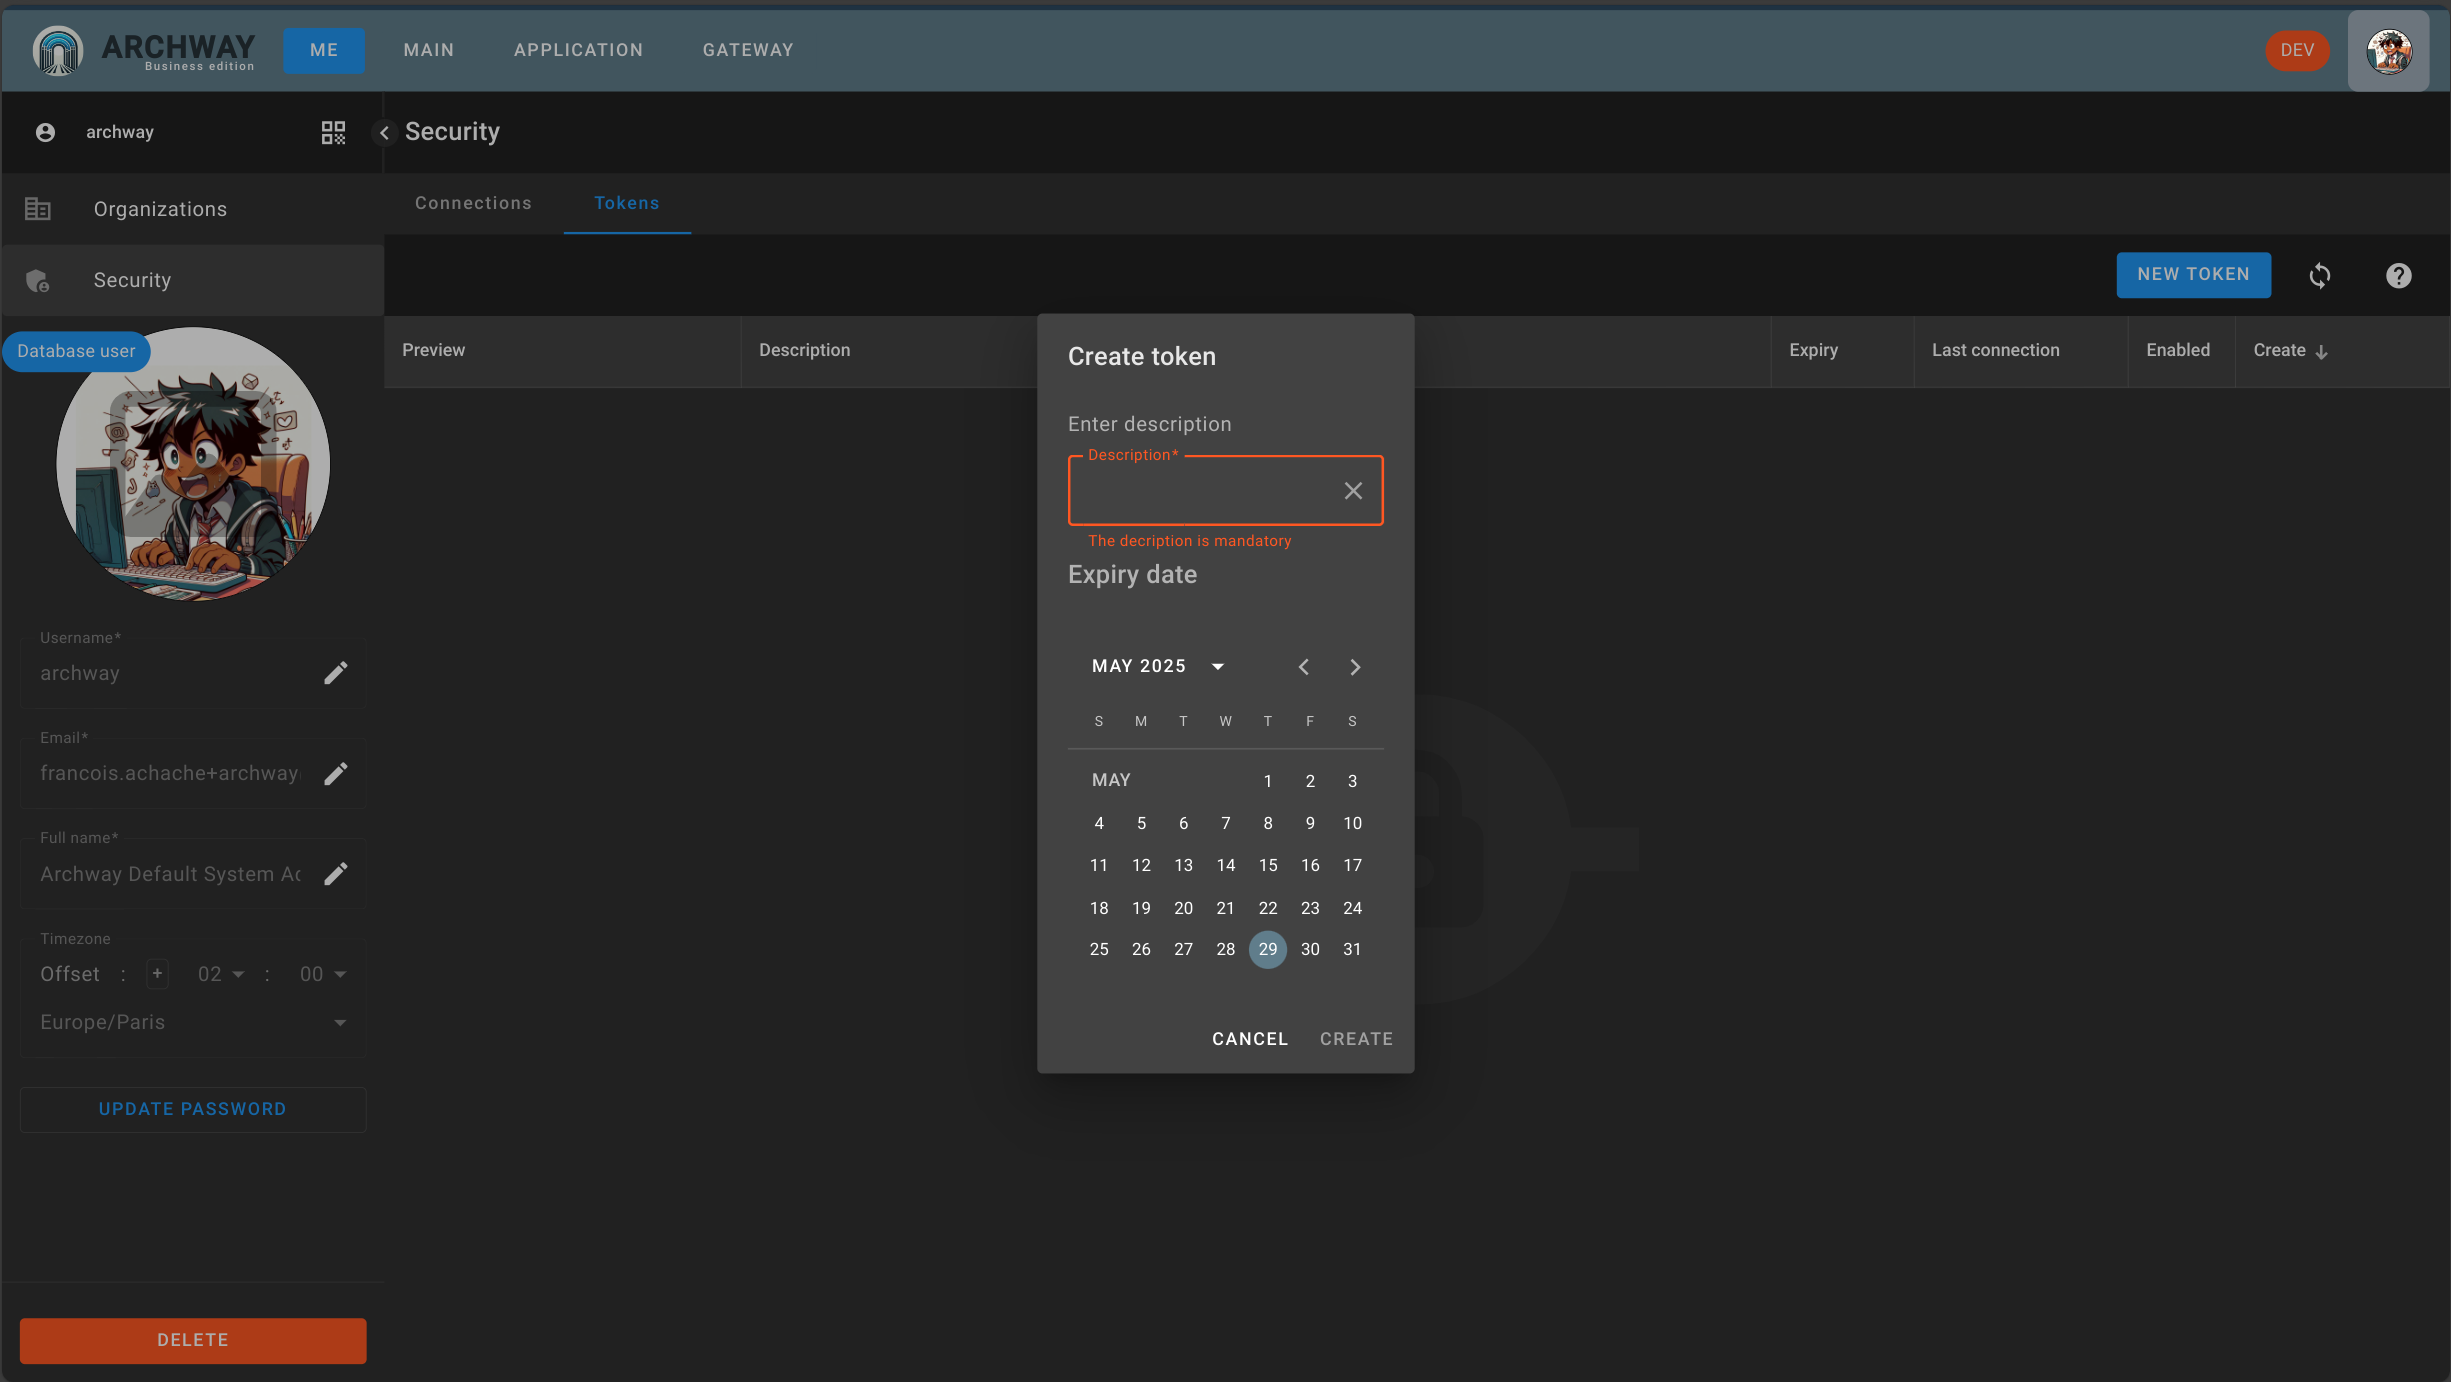
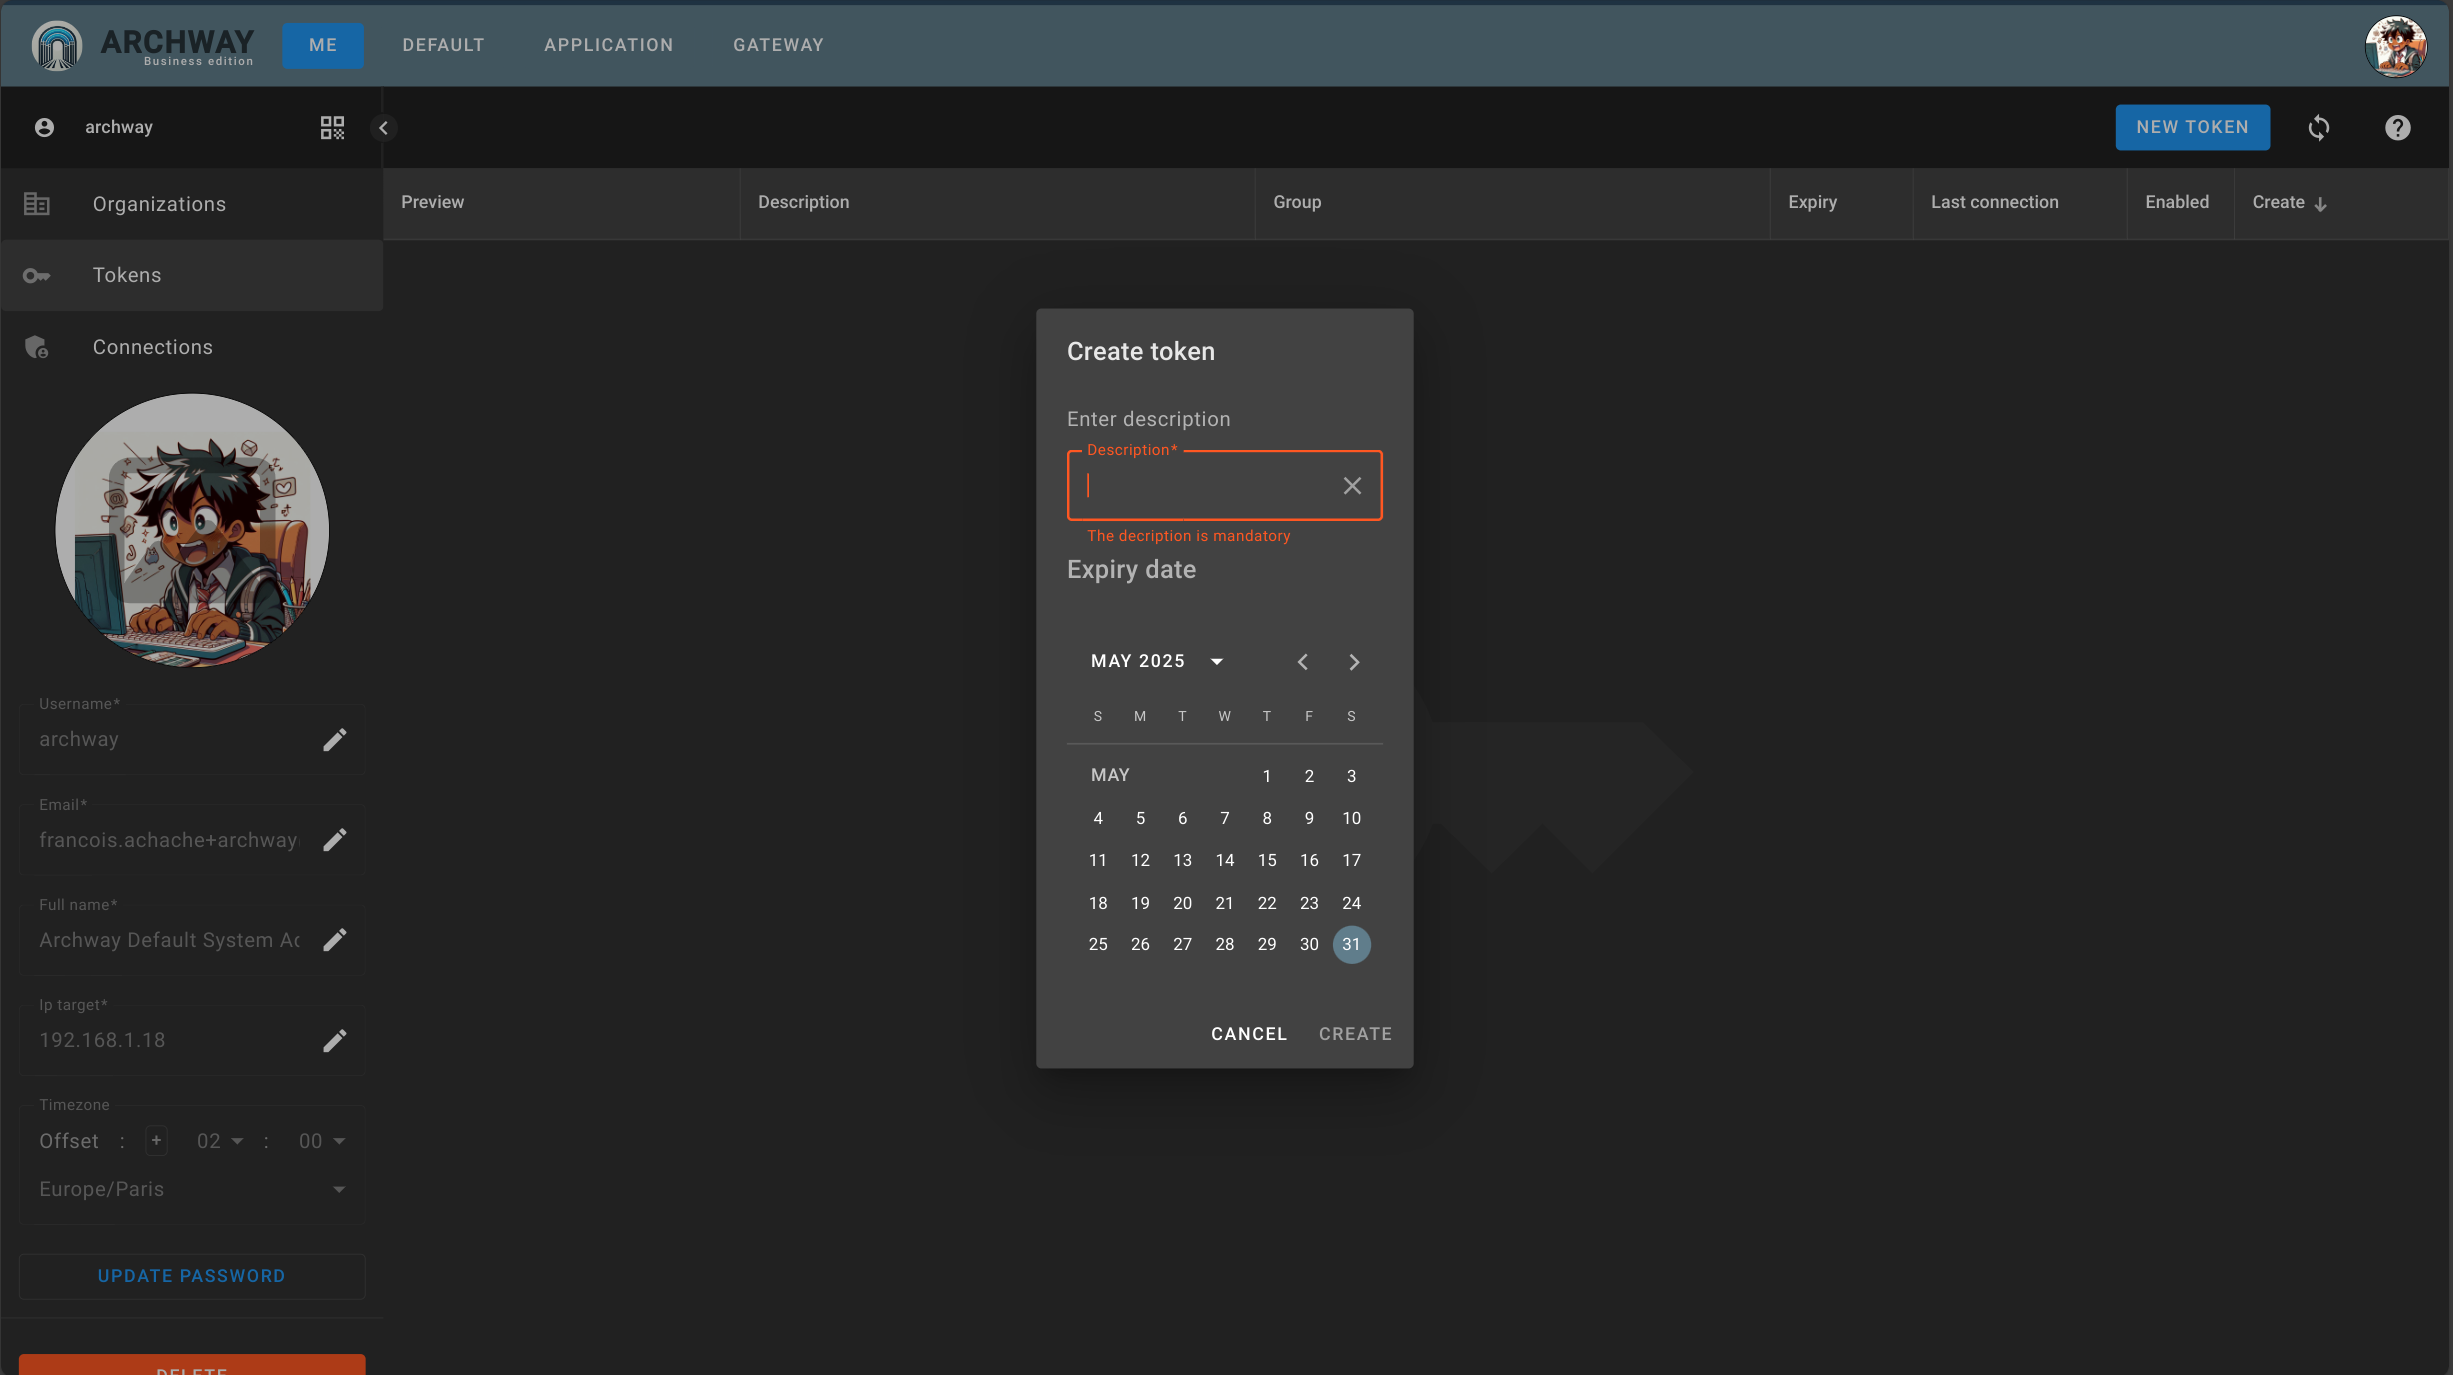
update tutorial

diff --git a/sidebars.ts b/sidebars.ts
@@ -41,13 +41,23 @@ const sidebars: SidebarsConfig = {
       collapsible: false,
       collapsed: false,
       items: [
-        'tuto/organization',
-        'tuto/role-group',
-        'tuto/group-user',
-        'tuto/token',
+        'tuto/init/organization',
+        'tuto/init/role-group',
+        'tuto/init/group-user',
+        'tuto/init/token'
       ]
     },
-    'tuto/route-test',
+    {
+      type: 'category',
+      label: 'Test the route',
+      collapsible: false,
+      collapsed: false,
+      items: [
+        'tuto/test/test-ui',
+        'tuto/test/test-headers',
+        'tuto/test/test-api'
+      ]
+    },
   ],
   docuSidebar: [
     'doc/start',

diff --git a/docs/tuto/test/test-headers.md b/docs/tuto/test/test-headers.md
@@ -1,0 +1,76 @@
+---
+slug: test-headers
+title: Test Forward Headers
+authors: fachache
+tags: []
+---
+
+We will now test if the user's information is correctly forwarded to the backend (here `httpbin.org`).
+
+Still in the `httpbin` interface, open the `HTTP Methods` section, then `Get`.
+
+Like this:
+
+![httpbin-open-get](../img/test/httpbin-open-get.png)
+
+Click on `Try it out`, then `Execute`.
+
+You should see something similar to this:
+
+```json
+{
+  "args": {},
+  "headers": {
+    "Accept": "application/json",
+    "Accept-Encoding": "gzip, deflate, br, zstd",
+    "Accept-Language": "en",
+    "Cache-Control": "no-cache",
+    "Content-Length": "0",
+    "Cookie": "archway=1e166086-2c0f-4e66-b93f-2e0fd0f1ec1f",
+    "Forwarded": "proto=https;host=localhost;for=\"10.0.0.2:40308\"",
+    "Host": "httpbin",
+    "Organizationid": "663a891650967f4fc96565f9",
+    "Organizationname": "DEFAULT",
+    "Pragma": "no-cache",
+    "Priority": "u=1, i",
+    "Remote-User": "663a8727fe1c465d3bb93647",
+    "Roles": "[\"HTTPBIN_TESTER\"]",
+    "Sec-Ch-Ua": "\"Microsoft Edge\";v=\"125\", \"Chromium\";v=\"125\", \"Not.A/Brand\";v=\"24\"",
+    "Sec-Ch-Ua-Mobile": "?0",
+    "Sec-Ch-Ua-Platform": "\"Linux\"",
+    "Sec-Fetch-Dest": "empty",
+    "Sec-Fetch-Mode": "cors",
+    "Sec-Fetch-Site": "same-origin",
+    "User-Agent": "Mozilla/5.0 (X11; Linux x86_64) AppleWebKit/537.36 (KHTML, like Gecko) Chrome/125.0.0.0 Safari/537.36 Edg/125.0.0.0",
+    "Username": "archway",
+    "X-Forwarded-Host": "localhost"
+  },
+  "origin": "2a01:cb04:1251:b600:b9a6:1dbc:188b:e117,10.0.0.2",
+  "url": "http,http://localhost:8080/get"
+}
+```
+
+The interesting points are the following:
+
+```json
+{
+  "headers": {
+    "Accept-Language": "en",
+    "Organizationid": "663a891650967f4fc96565f9",
+    "Organizationname": "DEFAULT",
+    "Remote-User": "663a8727fe1c465d3bb93647",
+    "Roles": "[\"HTTPBIN_TESTER\"]",
+    "Username": "archway",
+  }
+}
+```
+
+- Accept-Language: `ARCHWAY` sets the language defined by the user. If your application was internationalized, it should use this information.
+- Username: the user's name in clear text.
+- Remote-User: the user's ID.
+- Organizationid: the organization's ID.
+- Organizationname: the organization's name in clear text.
+- Roles: the user's roles in the organization.
+
+This information is important, it will allow the application to apply rights via roles but also to discriminate accessible data by the latter. This is at the user level but also at the organization level.
+

diff --git a/docs/tuto/init/organization.md b/docs/tuto/init/organization.md
@@ -11,7 +11,7 @@ The first step after creating the system user is to grant them the right to crea
 
 To do this, once logged in, go to the `APPLICATION` page, then select `Users`.
 
-![users](img/users.png)
+![users](../img/users.png)
 
 On the line of the user you created, allow them to create organizations by clicking on the `Allow organization creation` button.
 
@@ -23,7 +23,7 @@ Click on the `NEW ORGANIZATION` button.
 
 Enter the name of the organization. For example, we will name it `MAIN`;
 
-![create-organization](img/create-organization.png)
+![create-organization](../img/create-organization.png)
 
 There you have it, you now have an organization.
 
@@ -35,4 +35,4 @@ If the concept of an organization is not important in your case, create only one
 
 Go to the `ME` page and on the line for the organization `MAIN`, click on the `GO TO` button.
 
-![goto](img/goto.png)
+![goto](../img/goto.png)

diff --git a/docs/tuto/init/token.md b/docs/tuto/init/token.md
@@ -9,20 +9,20 @@ To cover as many cases as possible, we will now create a connection token, which
 
 For this, we will use the token to authenticate and obtain a JWT ticket.
 
-Go to the `ME` page. Section `Security`, then `Tokens`.
+Go to the `ME` page. Section `Tokens`.
 
 Click on the `NEW TOKEN` button.
 
 Enter the description of the token, then click `CREATE`.
 
-![create-token](img/create-token.png)
+![create-token](../img/create-token.png)
 
 In return, a window opens and reveals the token.
 
-![token-created](img/token-created.png)
+![token-created](../img/token-created.png)
 
 Copy the token, it will be used later in the tutorial.
 
 :::note
-The token will not be accessible later, make sure to save it.
+The token will not be accessible later, make sure to copy and save it.
 :::

diff --git a/docs/tuto/test/test-ui.md b/docs/tuto/test/test-ui.md
@@ -1,0 +1,24 @@
+---
+slug: test-ui
+title: Test UI
+authors: fachache
+tags: []
+---
+
+## Accessing the Application
+
+In this section, we will test if we can access the application.
+
+To do this, open a new tab in your browser and go to the application.
+
+[http://localhost:8080](http://localhost:8080)
+
+You should see this:
+
+![httpbin](../img/test/httpbin.png)
+
+:::note
+Note the button at the top right, which allows access to the actions offered by `ARCHWAY`.
+:::
+
+![httpbin-user-btn](../img/test/httpbin-user-btn.png)

diff --git a/docs/tuto/init/role-group.md b/docs/tuto/init/role-group.md
@@ -22,9 +22,9 @@ Then select the `Groups` section.
 
 Finally, click on the `NEW GROUP` button. Create the group `TESTER`.
 
-![new-group](img/new-group.png)
+![new-group](../img/new-group.png)
 
 And finally check the checkbox between `HTTPBIN_TESTER` and `TESTER`.
 
-![role-in-group](img/role-in-group.png)
+![role-in-group](../img/role-in-group.png)
 

diff --git a/docs/tuto/route/route.md b/docs/tuto/route/route.md
@@ -18,7 +18,7 @@ Click on the `Gateway` tab
 
 ![gateway-tab](../img/route/gateway-tab.png)
 
-Then click `NEW ROUTE`
+Then click on the fab button on the bottom right `+`
 
 ![create-route-open](../img/route/create-route-name-and-uri.png)
 

diff --git a/docs/tuto/init/group-user.md b/docs/tuto/init/group-user.md
@@ -11,5 +11,5 @@ Still on the organization's administration page, go to the `Members` section.
 
 Next, check the box between `TESTER` and the user.
 
-![group-to-user](img/group-to-user.png)
+![group-to-user](../img/group-to-user.png)
 
